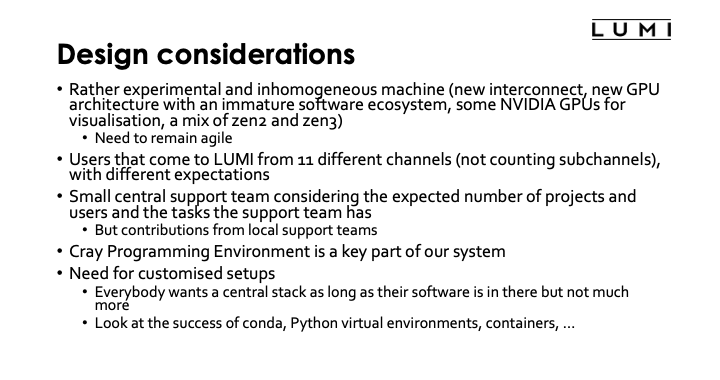
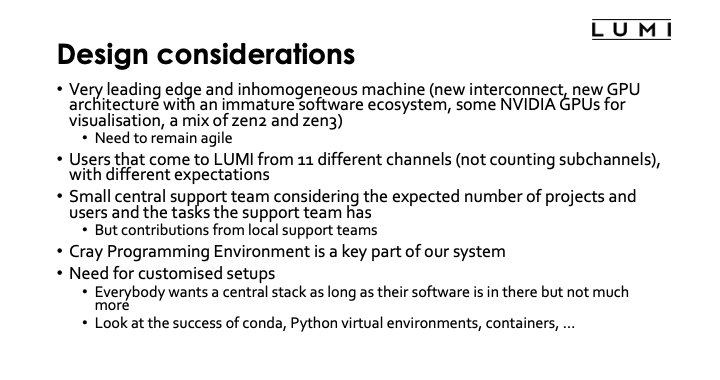
Some minor updates to notes and slides.

Changed region(s): [[0.0917, 0.2026, 0.9167, 0.2605]]

diff --git a/docs/PEAP-Q-20220427/software_stacks.md b/docs/PEAP-Q-20220427/software_stacks.md
@@ -20,51 +20,52 @@ In this part of the training, we cover:
   ![Slide 3](img/LUMI-PEAPQ-EasyBuild-20220427/Dia3.png){ loading=lazy }
 </figure>
 
--   LUMI is a rather experimental and also a inhomogeneous machine. 
+-   LUMI is a **very leading edge** and also an **inhomogeneous machine**. Leading edge often implies
+    **teething problems** and ihomogeneous doesn't make life easier either.
 
-    1.  It uses a novel interconnect which is an extension of Ethernet rather than being based on InfiniBand, 
+    1.  It uses a **novel interconnect** which is an extension of Ethernet rather than being based on InfiniBand, 
         and that interconnect has a different software stack of your typical Mellanox InfiniBand cluster. 
-    2.  It also uses a relatively new GPU architecture, AMD CDNA2, with an immature software ecosystem. 
-        The GPU nodes are really GPU-first, with the interconnect cards connected directly to the GPU packages 
-        and only one CPU socket, and another feature which is relatively new: a fully cache-coherent unified memory
+    2.  It also uses a **relatively new GPU architecture**, AMD CDNA2, with an immature software ecosystem. 
+        The GPU nodes are really **GPU-first**, with the **interconnect cards connected directly to the GPU packages** 
+        and only one CPU socket, and another feature which is relatively new: a **fully cache-coherent unified memory**
         space between the CPU and GPUs, though of course very NUMA. This is a feature that has previously
         only been seen in some clusters with NVIDIA P100 and V100 GPUs and IBM Power 8 and 9 CPUs used
         for some USA pre-exascale systems, and of course in the Apple M1 but then without the NUMA character.
-    3.  LUMI is also inhomogeneous because some nodes have zen2 processors while the two main compute partitions
-        have zen3-based CPUS, and the compute GPU nodes have AMD GPUs while the visualisation nodes have
+    3.  LUMI is also **inhomogeneous** because some nodes have zen2 processors while the two main compute partitions
+        have zen3-based CPUs, and the compute GPU nodes have AMD GPUs while the visualisation nodes have
         NVIDIA GPUs. 
         
     Given the novel interconnect and GPU we do expect that both system and application
-    software will be immature at first and evolve quickly, hence we needed a setup that enables us
+    software will be immature at first and **evolve quickly**, hence we needed a setup that enables us
     to remain very agile, which leads to different compromises compared to a software stack for a more
     conventional and mature system as a x86 cluster with NVIDIA GPUs and Mellanox InfiniBand.
 
--   Users also come to LUMI from 11 different channels, not counting subchannels as some countries have
+-   Users also come to LUMI from **11 different channels**, not counting subchannels as some countries have
     multiple organisations managing allocations, and those channels all have different expectations about
     what LUMI should be and what kind of users should be served. For our major stakeholder, the EuroHPC JU,
     LUMI is a pre-exascale system meant to prepare users and applications to make use of future even large
     systems, while some of the LUMI consortium countries see LUMI more as an extension of their tier-1 or
     even tier-2 machines.
 
--   The central support team of LUMI is also relatively small compared to the nature of LUMI with its
+-   The central support team of LUMI is also **relatively small compared to the nature of LUMI** with its
     many different partitions and storage services and the expected number of projects and users. 
-    Support from users coming in via the national channels will rely a lot on efforts from local organisations
-    also. So we must set up a system so that they can support their users without breaking things on
-    LUMI, and to work with restricted rights. And in fact, LUMI User Support team members also have very limited additional
+    Support from users coming in via the national channels will rely a lot on efforts from **local organisations**
+    also. **So we must set up a system so that they can support their users without breaking things on
+    LUMI, and to work with restricted rights.** And in fact, LUMI User Support team members also have very limited additional
     rights on the machine compared to regular users or support people from the local organisations.
     LUST is currently 9 FTE. Compare this to 41 people in the Jülich Supercomputer Centre for software
     installation and support only... (I give this number because it was mentioned in a recent talk in an
     EasyBuild user meeting.)
 
--   The Cray Programming Environment is also a key part of LUMI and the environment for which we get
-    support from HPE Cray. It is however different from more traditional environments such as a typcial
+-   The Cray Programming Environment is also a **key part of LUMI** and the environment for which we get
+    support from HPE Cray. It is however different from more traditional environments such as a typical
     Intel oneAPI installation of a typical installation build around the GNU Compiler Collection and Open MPI
-    or MPICH. The programming environment is installed with the operating system rather than through the
+    or MPICH. The programming environment is **installed with the operating system** rather than through the
     user application software stack hence not managed through the tools used for the application software
-    stack, and it also works differently with its universal compiler wrappers that are typically configured
+    stack, and it also works differently with its **universal compiler wrappers** that are typically configured
     through modules. 
 
--   We also see an increasing need for customised setups. Everybody wants a central stack as long as their
+-   We also see an increasing **need for customised setups**. Everybody wants a central stack as long as their
     software is in there but not much more as otherwise it is hard to find, and as long as software is 
     configured in the way they are used to. And everybody would like LUMI to look as much as possible 
     as their home system. But this is of course impossible. Moreover, there are more and more conflicts
@@ -79,8 +80,8 @@ In this part of the training, we cover:
   ![Slide 4](img/LUMI-PEAPQ-EasyBuild-20220427/Dia4.png){ loading=lazy }
 </figure>
 
-We tried to take all these considerations into account and came up with a solution that may look a
-little unconventional to many users.
+We tried to take all these considerations into account and came up with a solution that may look **a
+little unconventional** to many users.
 
 In principle there should be a high degree of compatibility between releases of the HPE Cray Programming
 Environment but we decided not to take the risk and **build our software for a specific release of the 
@@ -126,20 +127,23 @@ developing them as we gain experience in what we can do with the amount of peopl
 cannot do.
 
 LUMI uses a **bring-your-on-license model except for a selection of tools that are useful to a larger
-community**. This is partly caused by the **distributed user management** as we do not even have the necessary
-information to determine if a particular user can use a particular license, so we must shift that 
-responsibility to people who have that information, which is often the PI of your project.
-You also have to take into account that up to 20% of LUMI is reserved for industry use which makes 
-negotiations with software vendors rather difficult as they will want to push us onto the industrial
-rather than academic pricing as they have no guarantee that we will obey to the academic license
-restrictions. And lastly, we don't have an infinite budget. There was a questionaire send out to 
-some groups even before the support team was assembled and that contained a number of packages that
-by themselves would likely consume our whole software budget for a single package if I look at the 
-size of the company that produces the package and the potential size of their industrial market. 
-So we'd have to make choices and with any choice for a very specialised package you favour a few 
-groups. And there is also a political problem as without doubt the EuroHPC JU would prefer that we
-invest in packages that are developed by European companies or at least have large development
-teams in Europe.
+community**. 
+
+-   This is partly caused by the **distributed user management** as we do not even have the necessary
+    information to determine if a particular user can use a particular license, so we must shift that 
+    responsibility to people who have that information, which is often the PI of your project.
+-   You also have to take into account that up to 20% of LUMI is reserved for industry use which makes 
+    negotiations with software vendors rather difficult as they will want to push us onto the industrial
+    rather than academic pricing as they have no guarantee that we will obey to the academic license
+    restrictions. 
+-   And lastly, **we don't have an infinite budget**. There was a questionaire send out to 
+    some groups even before the support team was assembled and that contained a number of packages that
+    by themselves would likely consume our whole software budget for a single package if I look at the 
+    size of the company that produces the package and the potential size of their industrial market. 
+    So we'd have to make choices and with any choice for a very specialised package you favour a few 
+    groups. And there is also a political problem as without doubt the EuroHPC JU would prefer that we
+    invest in packages that are developed by European companies or at least have large development
+    teams in Europe.
 
 The LUMI User Support Team **tries to help with installations of recent software** but **porting or bug
 correction in software is not our task**. As a user, you have to realise that **not all Linux or even
@@ -218,6 +222,8 @@ the AMD GPU ecosystem, so we make no promises whatsoever about a time frame for 
 
 ### 3 ways to access the Cray Programming environment on LUMI.
 
+#### Bare environment and CrayEnv
+
 <figure markdown style="border: 1px solid #000">
   ![Slide 7](img/LUMI-PEAPQ-EasyBuild-20220427/Dia7.png){ loading=lazy }
 </figure>
@@ -237,6 +243,8 @@ tools** like newer build tools than provided with the OS. They are offered here 
 sure that those tools don't create conflicts with software in other stacks. But otherwise the Cray Programming 
 Environment **works exactly as you'd expect from this course**.
 
+#### LUMI stack
+
 <figure markdown style="border: 1px solid #000">
   ![Slide 8](img/LUMI-PEAPQ-EasyBuild-20220427/Dia8.png){ loading=lazy }
 </figure>
@@ -255,8 +263,11 @@ toolchains** instead as indicated by the following table:
 | `PrgEnv-amd`  | `cpeAMDy`      | AMD ROCm GPU compilers (LUMI-G only) |
 
 The cpeCray etc modules also load the MPI libraries and Cray LibSci just as the PrgEnv modules do.
+
 This is also the environment in which we install most software, and from the name of the modules you can see which
 compilers we used.
+
+#### LUMI stack mmodule organisation
 
 <figure markdown style="border: 1px solid #000">
   ![Slide 9](img/LUMI-PEAPQ-EasyBuild-20220427/Dia9.png){ loading=lazy }
@@ -270,6 +281,7 @@ version of the LUMI stack.
 The **second level consists of partition modules**. There is partition/L for the login and large memory nodes,
 partition/C for the regular compute nodes, partition/EAP for the early access platform and in the future
 we will have partition/D for the visualisation nodes and partition/G for the AMD GPU nodes.
+
 There is also a **hidden partition/common module** in which we install software that is available everywhere, 
 but we advise you to be careful to install software in there in your own installs as it is risky to rely on
 software in one of the regular partitions, and impossible in our EasyBuild setup.
@@ -298,7 +310,7 @@ explicitly load the partition/L module.
 
 Contrary to some other module systems, or even some other Lmod installations, **not all modules are
 immediately available for loading**. So don't be disappointed by the few modules you will see with
-`module available` right after login. Lmod has a so-called hierarchical setup that tries to protect
+`module available` right after login. Lmod has a **so-called hierarchical setup** that tries to protect
 you from being confronted with all modules at the same time, even those that may conflict with 
 each other, and we use that to some extent on LUMI. Lmod **distinguishes between installed modules and
 available modules**. Installed modules are all modules on the system that can be loaded one way or
@@ -326,6 +338,8 @@ Lmod has **several tools to search for modules**.
 
 
 ### Module spider command
+
+***Demo moment 1***
 
 <figure markdown style="border: 1px solid #000">
   ![Slide 11](img/LUMI-PEAPQ-EasyBuild-20220427/Dia11.png){ loading=lazy }
@@ -575,6 +589,8 @@ a different partition module than the one that is auto-loaded by the `LUMI` modu
 
 ### Step 2: Install the software.
 
+***Demo moment 2***
+
 <figure markdown style="border: 1px solid #000">
   ![Slide 18](img/LUMI-PEAPQ-EasyBuild-20220427/Dia18.png){ loading=lazy }
 </figure>
@@ -616,6 +632,8 @@ and you should be able to see the module in the output of
 ```bash
 module avail
 ```
+
+***End of demo moment 2***
 
 ### Step 2: Install the software - Note
 
@@ -678,7 +696,7 @@ directory run EasyBuild, for instance for VASP 6.3.0 with the GNU compilers:
 eb –r . VASP-6.3.0-cpeGNU-21.12.eb
 ```
 
-### More advanced work (2)
+### More advanced work (2): Repositories
 
 <figure markdown style="border: 1px solid #000">
   ![Slide 21](img/LUMI-PEAPQ-EasyBuild-20220427/Dia21.png){ loading=lazy }
@@ -702,7 +720,7 @@ The structure should also be compatible with the structure that EasyBuild uses, 
 easyconfig files go in `$EBU_USER_PREFIX/easybuild/easyconfigs`.
 
 
-### More advanced work (3)
+### More advanced work (3): Reproducibility
 
 <figure markdown style="border: 1px solid #000">
   ![Slide 22](img/LUMI-PEAPQ-EasyBuild-20220427/Dia22.png){ loading=lazy }
